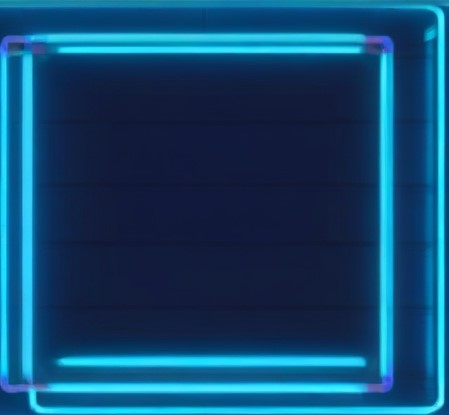
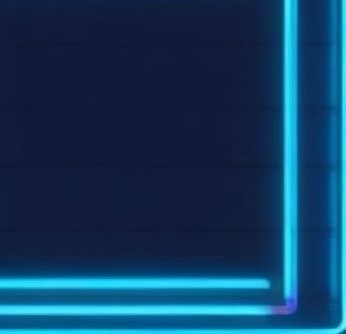
fundo imagem principal

diff --git a/style.css b/style.css
@@ -75,9 +75,20 @@ body {
 img {
     width: 600px; /* Largura fixa da imagem */
     height: 600px; /* Altura fixa da imagem */
-    border-radius: 92px; /* Borda arredondada */
+    border-radius: 20px; /* Borda arredondada */
 }
 
+/* Estilo para o contêiner das imagens */
+.imagem-container {
+    position: relative; /* Define o contexto de posicionamento */
+}
+
+.imagemEu {
+    position: absolute; /* Posiciona a imagem de acordo com o contêiner */
+    top: -6px; /* Ajusta a posição vertical (pode ser qualquer valor) */
+    left: -6px; /* Ajusta a posição horizontal (pode ser qualquer valor) */
+    z-index: 1; /* Define a ordem de sobreposição (maior valor fica acima) */
+}
 
 /* Regras de mídia para dispositivos móveis */
 @media (max-width: 768px) {
@@ -103,12 +114,29 @@ img {
         width: 100%; /* Ajusta a largura do conteúdo */
     }
 
-    img {
-        width: 100%;
-        max-width: 200px; /* Largura máxima da imagem */
-        height: auto; /* Mantém a proporção */
-        border-radius: 50%; /* Bordas arredondadas */
-    }
+    /* Estilo para imagens */
+img {
+    width: 100%;
+    max-width: 200px; /* Largura máxima da imagem */
+    height: auto; /* Mantém a proporção */
+    border-radius: 3%; /* Bordas arredondadas */
+}
+
+/* Estilo para o contêiner das imagens */
+.imagem-container {
+    position: relative; /* Define o contexto de posicionamento */
+}
+
+.imagemEu {
+    width: 100%;
+    max-width: 200px; /* Largura máxima da imagem */
+    height: auto; /* Mantém a proporção */
+    border-radius: 3%; /* Bordas arredondadas */
+    position: absolute; /* Posiciona a imagem de acordo com o contêiner */
+    top: -10px; /* Ajusta a posição vertical (pode ser qualquer valor) */
+    left: -3px; /* Ajusta a posição horizontal (pode ser qualquer valor) */
+    z-index: 1; /* Define a ordem de sobreposição (maior valor fica acima) */
+}
 
     .apresentacao__conteudo__titulo {
         font-size: 24px; /* Aumenta o tamanho da fonte */

diff --git a/index.html b/index.html
@@ -9,7 +9,10 @@
 <body>
     <header></header>
     <main class="apresentacao-do-conteudo"> 
-        <img src="./img/eu_menor.png" alt="Dono do portfólio">
+        <div class="imagem-container">
+            <img class="imagemEu" src="./img/eu_menor.png" alt="Dono do portfólio">
+            <img src="./img/square.jpg" alt="Quadrado neon">
+        </div>
         <section class="apresentacao__conteudo">
             <h1 class="apresentacao__conteudo__titulo">Eleve o patamar do seu empreendimento digital  <strong class="texto-destaque"> com um Front-end de excelência!</strong></h1>
             <p class="apresentacao__conteudo__texto">Olá! Me chamo Natanael Borges, especialista em Front-end com foco em <strong> JavaScript, HTML e CSS.</strong> Estou aqui para auxiliar pequenos empreendedores e designers a transformarem suas ideias em realidade. Vamos trabalhar juntos?</p>
